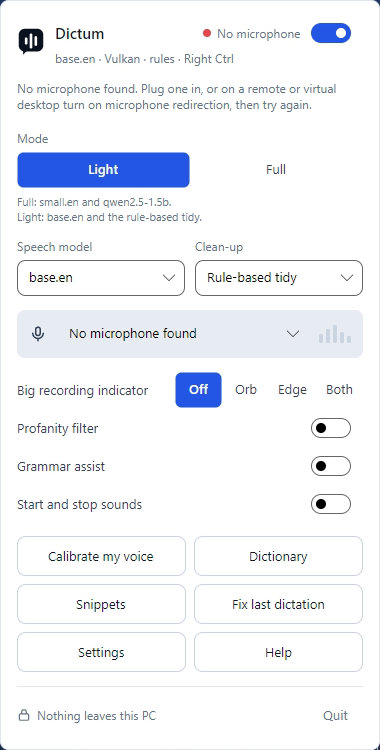
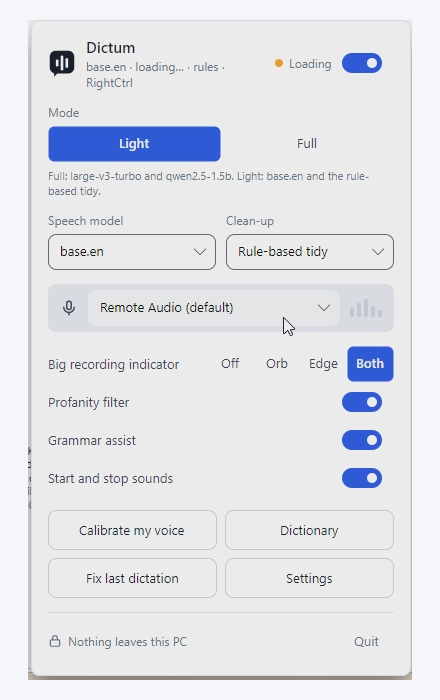
Demos: keep main's flyout.png, set version.json to 1.2.1
The sandbox panel shows a red No microphone, so site/img/flyout.png stays as on main and the owner captures one with a microphone (DEMOS.md note). site/version.json: 1.2.1, published 2026-10-22, with the approved notes.

diff --git a/docs/DEMOS.md b/docs/DEMOS.md
@@ -223,13 +223,14 @@ For 1.2, a new or renamed control needs only its data file changed: the scripts 
   was not established. Both were run again and completed (`flyout.json` was edited between its runs, for the pointer and tooltip, not for this).
 - **The tray panel still (`site/img/flyout.png`).** Not a demo's output: `flyout.json` records the panel in the Advanced
   view (Settings > Models > Advanced, Settings closed, panel opened, pointer parked on the taskbar so no tooltip shows)
-  and `site/img/flyout.png` is that step's raw frame (`frames\raw\09-panel.png`) cropped to the panel with
-  `ffmpeg -vf crop=380:750:1180:90`. It is 380 x 750; `site/index.html` still says `width="440" height="700"` on the
-  image, which only reserves space (`.shot img` is `width: 100%; height: auto`). The sandbox has no microphone, so the
+  and the still would be that step's raw frame (`frames\raw\09-panel.png`) cropped to the panel with
+  `ffmpeg -vf crop=380:750:1180:90` (380 x 750; `site/index.html` says `width="440" height="700"` on the image, which only
+  reserves space, as `.shot img` is `width: 100%; height: auto`). The sandbox has no microphone, so the
   panel shows "No microphone", a red dot and the no-microphone sentence, and the mic row says "No microphone found";
   the clean-up is the default, so the header reads "base.en · Vulkan · rules · Right Ctrl" and the picker "Rule-based
   tidy". It does not show "No clean-up" (that needs clean-up set to Off). A panel with a working microphone has to be
-  captured on a real PC.
+  captured on a real PC. For that reason this still was not published: `site/img/flyout.png` stays as it was on main,
+  and the owner captures a new one on a PC with a microphone.
 - **Store screenshot 1 (the hold pill, edge glow on) cannot be recorded here.** With no microphone the controller ends
   the session before the hold pill is shown (`DictationController.StartCapture`, "the rest of this batch (the hold
   pill) belonged to the recording that never started"), and `key` presses for 80 ms, not a hold. `dictation-stills`
